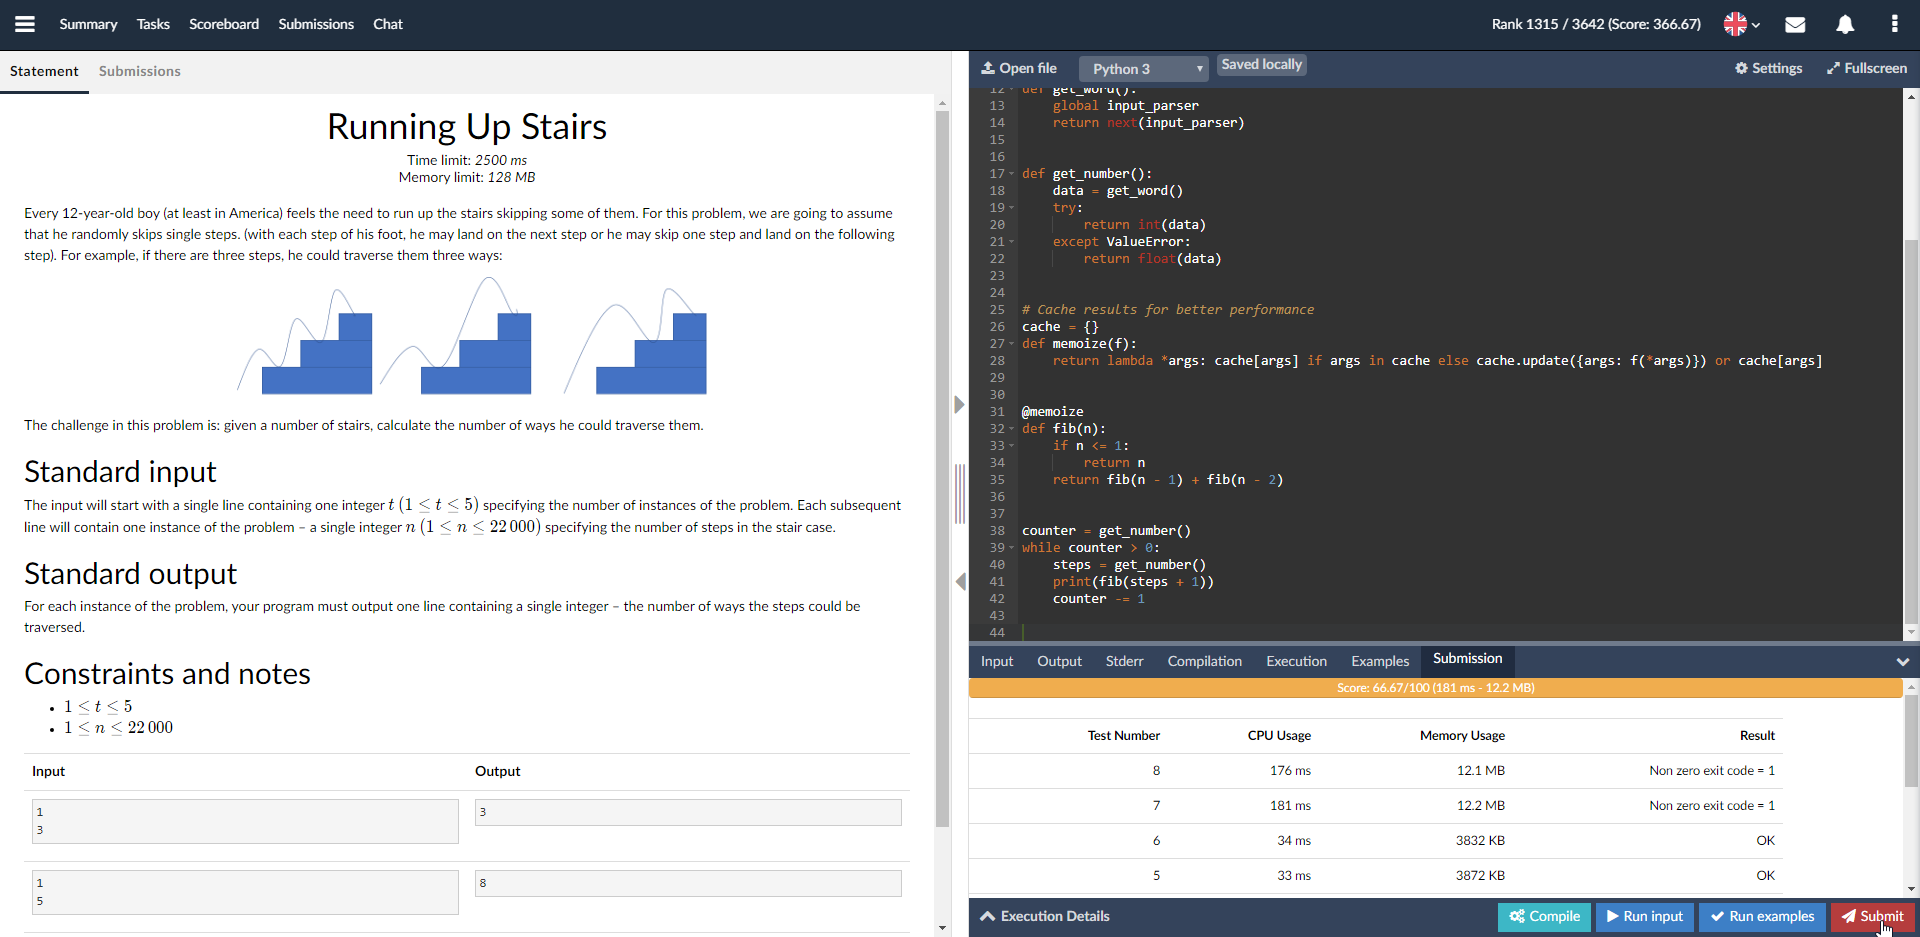
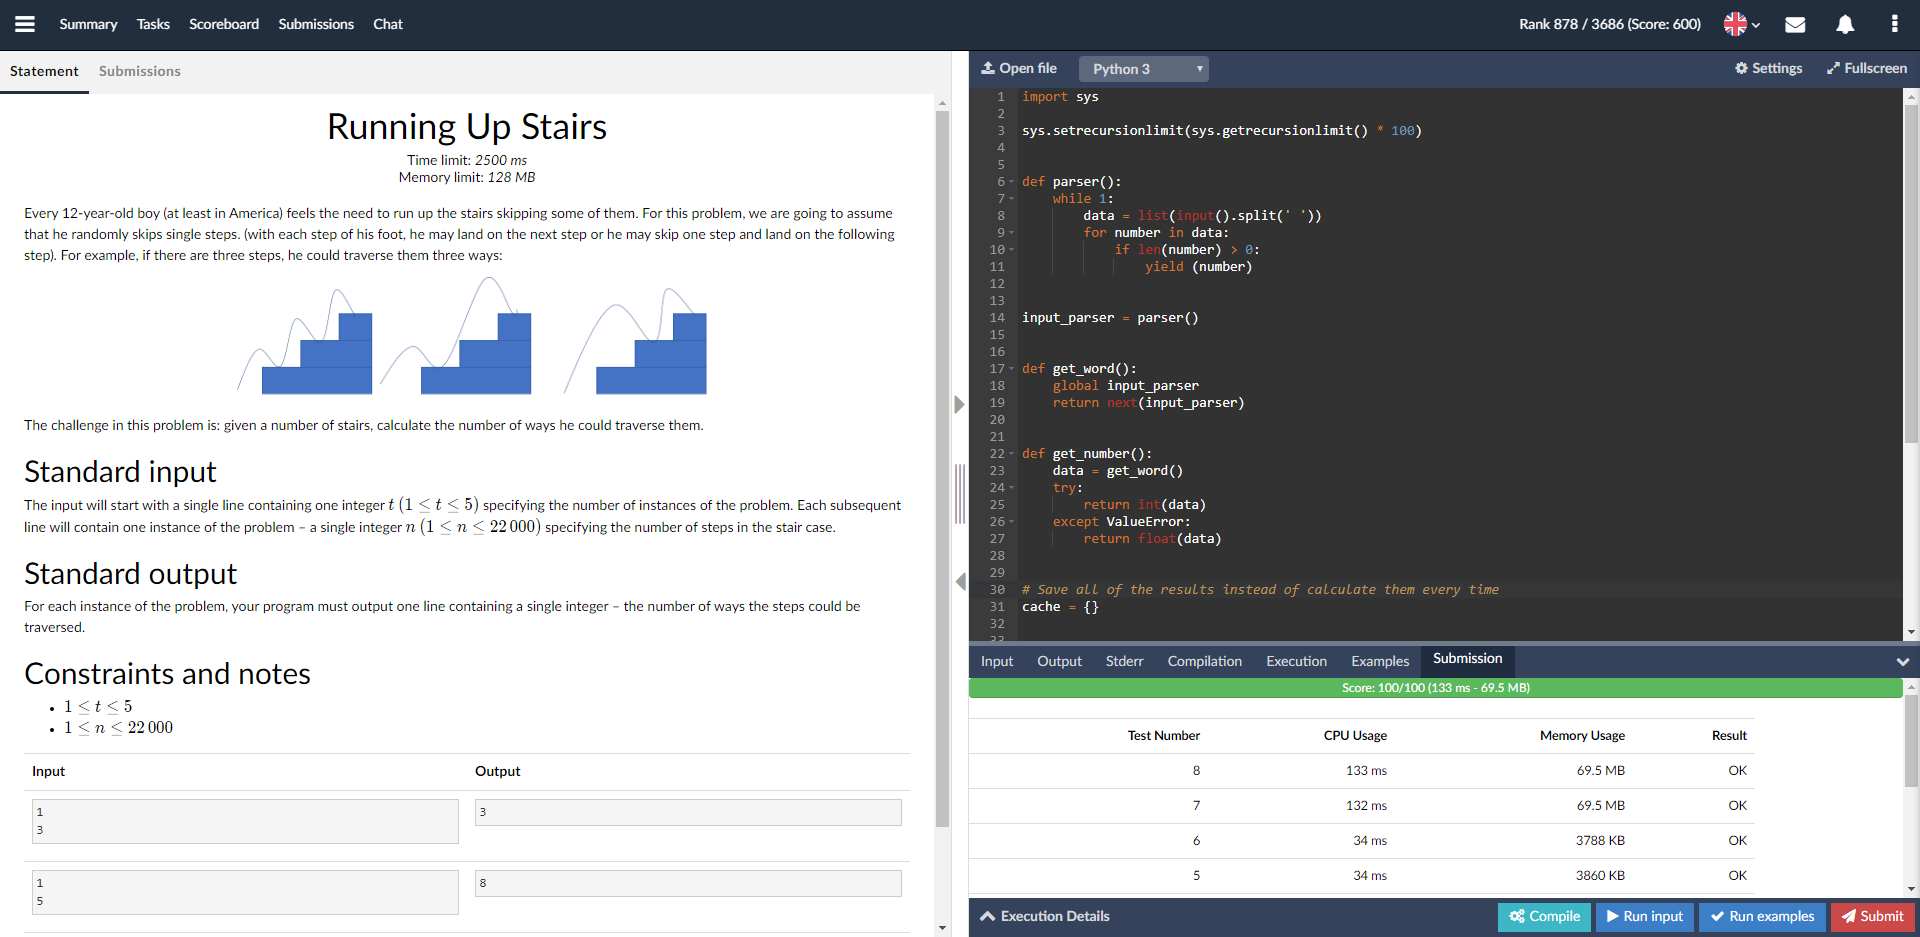
fix running up stairs

diff --git a/IEEE/RunningUpStairs/RunningUpStairs.py b/IEEE/RunningUpStairs/RunningUpStairs.py
@@ -1,3 +1,8 @@
+import sys
+
+sys.setrecursionlimit(sys.getrecursionlimit() * 100)
+
+
 def parser():
     while 1:
         data = list(input().split(' '))
@@ -21,8 +26,11 @@ def get_number():
     except ValueError:
         return float(data)
 
+
 # Save all of the results instead of calculate them every time
 cache = {}
+
+
 def memoize(f):
     return lambda *args: cache[args] if args in cache else cache.update({args: f(*args)}) or cache[args]
 
@@ -35,7 +43,7 @@ def fib(n):
 
 
 counter = get_number()
-while counter > 0:
+while counter:
     steps = get_number()
     print(fib(steps + 1))
     counter -= 1

diff --git a/IEEE/RunningUpStairs/readme.md b/IEEE/RunningUpStairs/readme.md
@@ -3,5 +3,3 @@ Running Up Stairs
 Solution for [Running Up Stairs](https://csacademy.com/ieeextreme-practice/task/96c8b1313edd72abf600facb0a14dbab/) task from CSAcademy
 
 I've realized it's a fibonacci sequence, so I calculated the next fibonacci number and used cache dictionary to save results.
-
-I have no idea why the last 2 tests failed.
